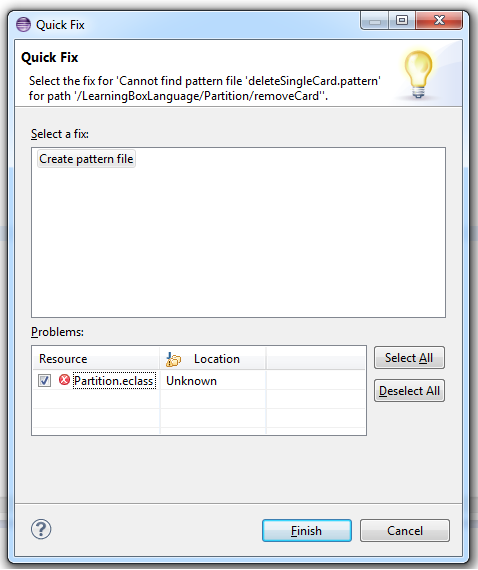
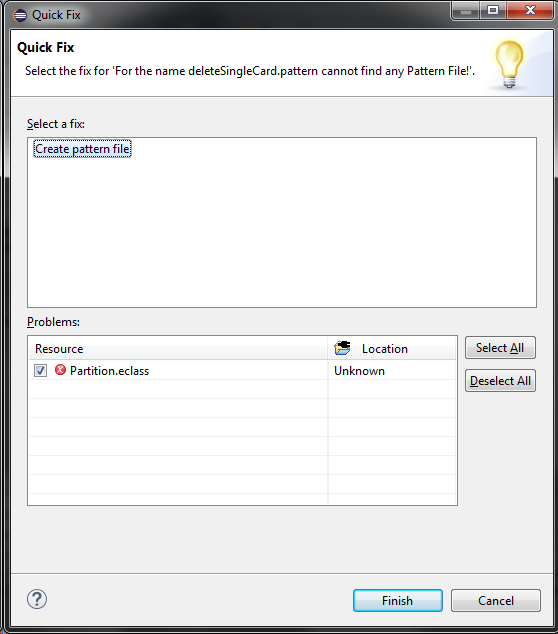
last progress

Changed region(s): [[0.0, 0.0, 1.0, 1.0], [0.5858, 0.5368, 0.7322, 0.5965], [0.7908, 0.7754, 0.8201, 0.8053]]

diff --git a/Handbook/org.moflon.doc.handbook.03_storyDiagrams/03_removeCard/texRemoveCard.tex b/Handbook/org.moflon.doc.handbook.03_storyDiagrams/03_removeCard/texRemoveCard.tex
@@ -11,43 +11,68 @@
 \texttt{removeCard} signature and add a pair of curly brackets so that it looks like a proper method declaration. This entire scope can be referred to as the method's \emph{activity}, where the control flow (imperative top-layer) of a
 transformation is defined.
 
-\itemWithRightTriangle Complete the activity with a single pattern and return statement as depicted in Fig~\ref{eclipse:remCardDec}. Don't forget -- you
+\itemWithRightTriangle Complete the activity with a single pattern and return statement as depicted in Listing~\ref{eclipse:remCardDec}. Don't forget -- you
 can use eMoflon's auto-complete feature here! Press \texttt{Ctrl + Space} on an
 empty line, then select the pattern template to establish \texttt{deleteSingleCard}.
 
-\itemWithRightTriangle Note that in this context, the \texttt{`@'} operator indicates an \emph{ObjectVariableExpression}%
-\define{ObjectVariable\-Expression}. This expression implicitly refers to object variables from the preceding story node. In \texttt{removeCard}'s case, the
-returned object refers to the \texttt{card} from the pattern.
+\itemWithRightTriangle Note that in this context, the \texttt{`\$'} operator indicates a \emph{ParameterExpression}%
+\define{Parameter\-Expression}. This expression implicitly refers to parameters from arguments which are assigned by the operation. In \texttt{removeCard}'s case, the returned parameter refers to the \texttt{card} parameter.
 
 \vspace{0.5cm}
 
-\begin{figure}[htp]
-\begin{center}
-  \includegraphics[width=0.5\textwidth]{eclipse_removeCardDeclaration}
-  \caption{Control flow for \texttt{removeCard}}
-  \label{eclipse:remCardDec}
-\end{center}
-\end{figure}
+\lstinputlisting[style=eclass, label=eclipse:remCardDec,caption={Control flow for \texttt{removeCard}}] {../03_removeCard/texRemCode/Partition.txt} 
 
 \itemWithRightTriangle It should be mentioned that MOSL limits method definitions exclusively to the method's control flow. All actual transformation
-rules are modeled in separate \emph{pattern} files. In this case, \texttt{removeCard}'s link deletion will be modeled in \texttt{[deleteSingleCard]}.
+rules are modelled in separate \emph{pattern} files. In this case, \texttt{removeCard}'s link deletion will be modelled in \texttt{[deleteSingleCard]}.
 
 \vspace{0.5cm}
 
 \itemWithRightTriangle Save \texttt{Partition.eclass}. An error should immediately appear below the editor. In the ``Problems'' tab, the message
-states that the builder cannot find the specified pattern file. Well, this makes sense. You haven't created it yet! Click this message and press \texttt{Ctrl +
-1} to invoke a ``Quick Fix'' dialogue (Fig~\ref{eclipse:quickFix}). It offers to create a pattern file for you. Given that's exactly what you'd like, select the
+states that the builder cannot find the specified pattern file (Fig.~\ref{eclipse:errorMissingPattern}). Well, this makes sense. You haven't created it yet! Click this message and press \texttt{Ctrl +
+1} to invoke a ``Quick Fix'' dialogue (Fig.~\ref{eclipse:quickFix}). It offers to create a pattern file for you. Given that's exactly what you'd like, select the
 option and press \texttt{Finish}.
 
 \vspace{0.5cm}
 
 \begin{figure}[htp]
-\begin{center}
-  \includegraphics[width=0.5\textwidth]{eclipse_patternQuickFix}
-  \caption{A quick fix to a missing pattern error}
-  \label{eclipse:quickFix}
-\end{center}
+	\centering
+	\subfloat[The errors because of the missing pattern]{	
+		\includegraphics[width=1\textwidth]{eclipse_errorMissingPattern}
+		\label{eclipse:errorMissingPattern}
+	}
+	\vspace{0.5cm}
+	\subfloat[A quick fix to a missing pattern error]{
+		  \includegraphics[width=0.45\textwidth]{eclipse_patternQuickFix}
+		  \label{eclipse:quickFix}
+	}
+	\caption{Missing pattern error handling}
 \end{figure}
+
+\vspace{0.5cm}
+
+\itemWithRightTriangle Alternatively, you can create a new folder with the name of the operation, in this case \texttt{removeCard} and create the \texttt{deleteSingleCard} pattern with the wizard.
+
+
+\begin{figure}[htp]
+	\centering
+	\subfloat[Menu to create a pattern manually]{	
+		\includegraphics[width=0.9\textwidth]{eclipse_newFolderPatternMenu}
+		\label{eclipse:newFolderPattern}
+	}
+	
+	\subfloat[Wizard to create the \texttt{remove\-Card} folder]{	
+			\includegraphics[width=0.45\textwidth]{eclipse_newFolder}
+			\label{eclipse:newFoldern}
+		}
+	\subfloat[Wizard to create the \texttt{delete\-Single\-Card} pattern]{
+		\includegraphics[width=0.45\textwidth]{eclipse_newPattern}
+		\label{eclipse:newPattern}
+	}
+	\caption{Manual way to create a pattern}
+\end{figure}
+
+\newpage
+
 
 \itemWithRightTriangle The new file will open in the editor, and you'll be able to see a new directory structure under ``LearningBoxLanguage/\_patterns''
 (Fig.~\ref{eclipse:pattStruct}). To explain, \texttt{deleteSingleCard.pattern} is invoked by the method \texttt{removeCard}, which is in the \texttt{Partition}
@@ -72,6 +97,10 @@ but \emph{what}.
 \itemWithRightTriangle Create two object variables, \texttt{@this:Partition } and \texttt{ @card:Card}\\ (Fig.~\ref{eclipse:remCardObjVar}). When working
 with MOSL patterns, \texttt{`@'} again indicates that the variable is \emph{bound}. \texttt{this} is bound to the object whose method is invoked,
 while \texttt{card} is bound to the value of the parameter with the same name.
+
+%\itemWithRightTriangle Note that in this context, the \texttt{`\$'} operator indicates a \emph{ObjectVariableExpression}%
+%\define{Parameter\-Expression}. This expression implicitly refers to object variables from the preceding story node. In \texttt{removeCard}'s case, the
+%returned object refers to the \texttt{card} from the pattern.
 
 \begin{figure}[htp]
 \begin{center}
